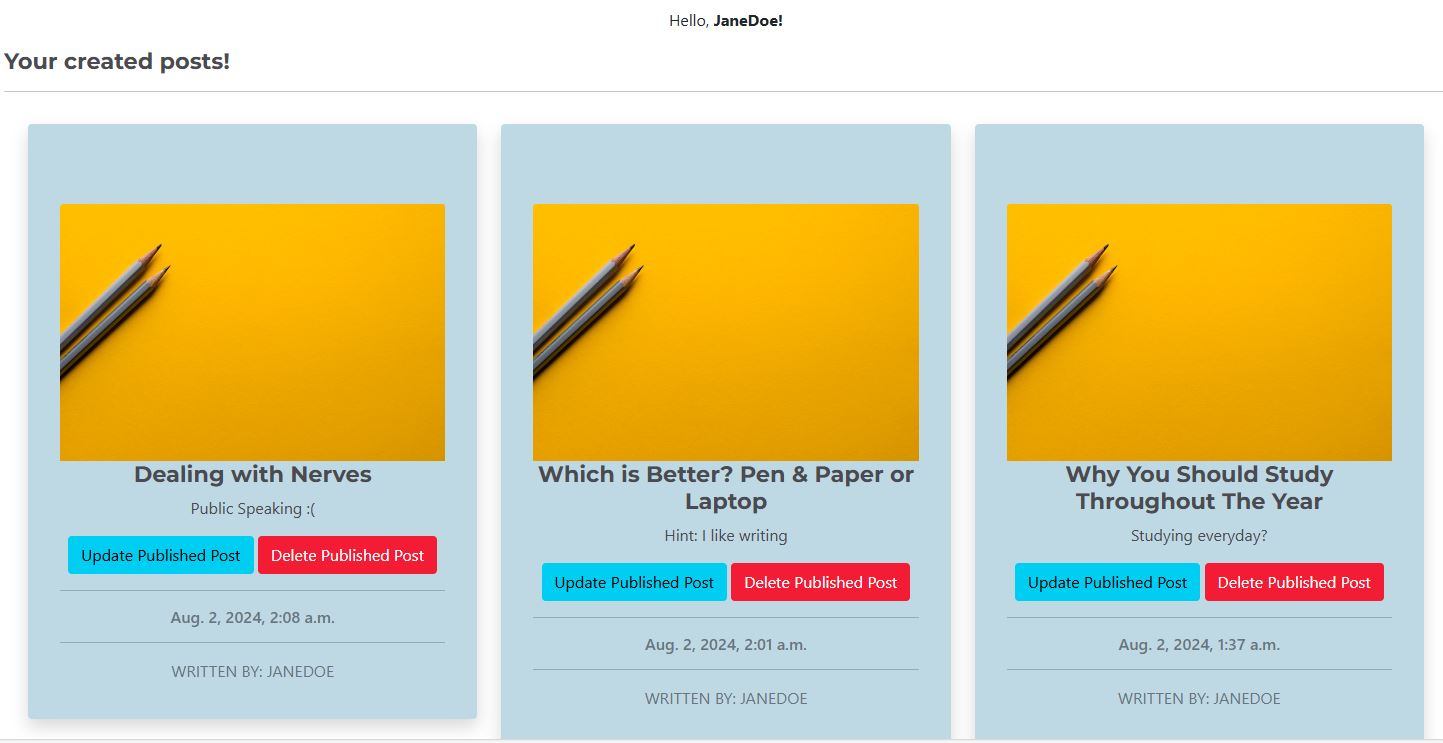
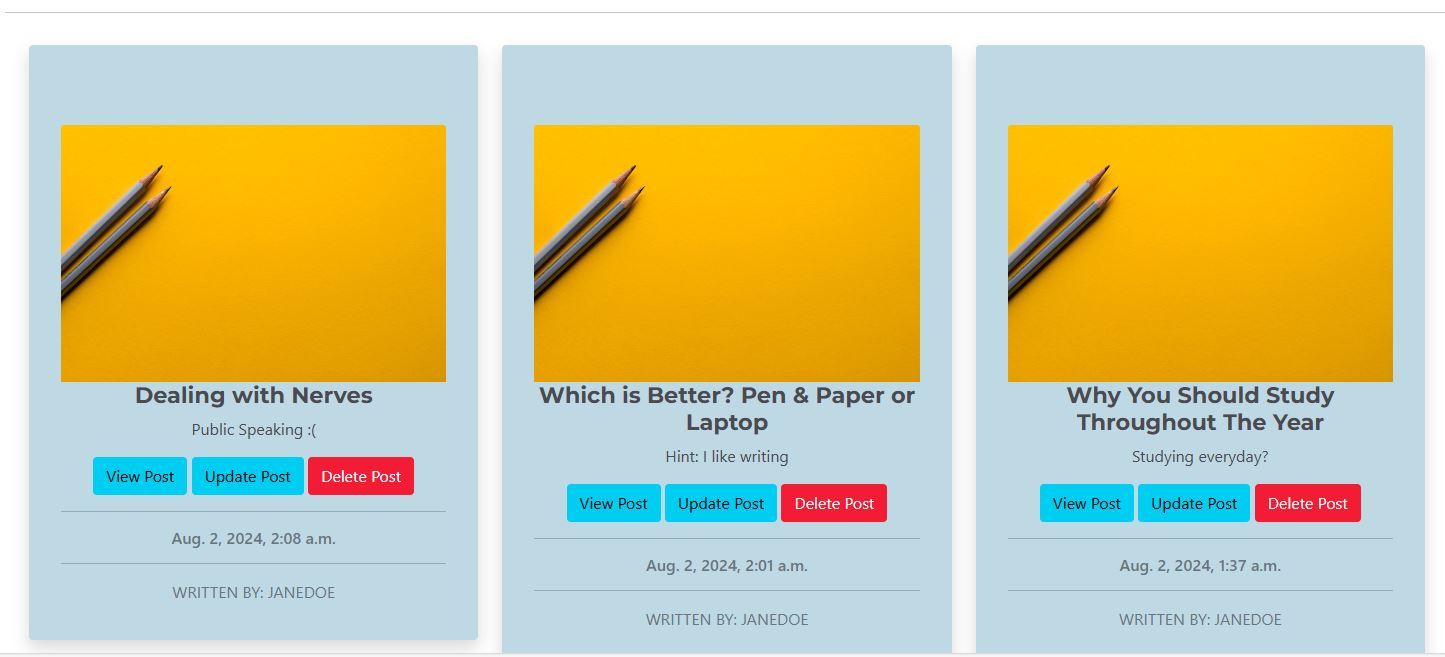
make some changes to the about (who we are) page , add content to read me, change the image (published_my_posts) where name is the same, edit my_posts_list.html to add a view posts button

diff --git a/studyexamtips/templates/studyexamtips/my_posts_list.html b/studyexamtips/templates/studyexamtips/my_posts_list.html
@@ -33,8 +33,9 @@
                             {% if user.is_authenticated and post.status == 1 and post.author == user %} 
                             {% csrf_token %}
                             <div class="text-center">
-                              <a href=" {% url 'edit' post.slug %}" class="btn btn-info" >Update Published Post</a>
-                              <a href=" {% url 'delete' post.slug %}" class="btn btn-danger" >Delete Published Post</a>
+                              <a href=" {% url 'post_detail' post.slug %}" class="btn btn-info" >View Post</a>
+                              <a href=" {% url 'edit' post.slug %}" class="btn btn-info" >Update Post</a>
+                              <a href=" {% url 'delete' post.slug %}" class="btn btn-danger" >Delete Post</a>
                             </div>
                             {% elif user.is_authenticated and post.status == 0 and post.author == user %}
                             <div class="text-center">

diff --git a/studyexamtips/templates/studyexamtips/about.html b/studyexamtips/templates/studyexamtips/about.html
@@ -21,7 +21,7 @@
                 are written by people who have been through it all.
                 <br>
                 <br>
-                You can visit our study tips page. Below is just sample of what you could find!
+                You can visit our study tips page for regular revision! Pages can include:
                 <ul class = "list-unstyled mt-1 mb-1">
                     <li>
                         How to organise your day
@@ -37,7 +37,7 @@
                     </li>
                 </ul> 
                 <br>
-                Or for exams we have the exam tips page. Have a look at a sample of what you could find!
+                Or for exams, we have the exam tips page. Have a look at a sample of what you could find!
                 <ul class = "list-unstyled mt-1 mb-1">
                     <li>
                         What to do on exam day

diff --git a/README.md b/README.md
@@ -1,7 +1,7 @@
 # Study Buddies 
 Welcome to the Study Buddies Project. 
 
-Study Buddies is a website dedicated to sharing study and exam tips to all who need it. Exam season can be stressful and knowing where to begin studying can be intimidating, therefore this site lets people (who've been through it all) to share any tips and tricks they want to. A source of inspiration for this site was Wikipedia. On Wikipedia people can share anything they'd like (as long as it follows the rules) regarding any topic. Whilst Wikipedia encompasses all topics related to absolutely anything in the world, Study Buddies focus on specifically studying, whether it's studying just for revision or studying for the all dreaded exam. Similar to Wikipedia, logged in users can share their own posts which ensures we have the latest tips and tricks and we can be sure they work! Even more importantly, it's crucial to be aware that everybody has different ways of working and studying. Because Study Buddies consists of posts written by users, we can be sure there is a plethora of information suitable for every need. 
+Study Buddies is a website dedicated to sharing study and exam tips to all who need it. Exam season can be stressful and knowing where to begin studying can be intimidating, therefore this site lets people (who've been through it all) to share any tips and tricks they want to. A source of inspiration for this site was Wikipedia. On Wikipedia people can share anything they'd like (as long as it follows the rules) regarding any topic. Whilst Wikipedia encompasses all topics related to absolutely anything in the world, Study Buddies focus on specifically studying, whether it's studying just for revision or studying for the all dreaded exam. Similar to Wikipedia, logged in users can share their own posts which ensures we have the latest tips and tricks and we can be sure they work! Even more importantly, it's crucial to be aware that everybody has different ways of working and studying. Because Study Buddies consists of posts written by users, we can be sure there is a plethora of information suitable for every need. The primary focus of the site is to provide advice based on previous experience of users. However, fundamentally StudyBuddies is a site which users can utilise for their journey in education regardless of where they're at. Therefore users also share other posts (not necessarily study tips or exam tips) such as exam-style questions. 
 
 You can view the deployed site [here](https://studybuddies-pp4-87eb5b7c6767.herokuapp.com/)
 
@@ -31,10 +31,10 @@ You can view the deployed site [here](https://studybuddies-pp4-87eb5b7c6767.hero
 
 # **Project**
 ## Users Goal
-The user is somebody who would like to find out more information about the best ways to study both in regular day to day studying and for exams
+The user is somebody who would like to find out more information about the best ways to study both in regular day to day studying and for exams. It can be used as a study tool also if a user decides to share subject related quizzes or questions. 
 
 ## Owners Goal
-The owner would like the community to be able to share tips and tricks to readers of the site to make studying easy
+The owner would like the community to be able to share tips and tricks to readers of the site to make studying and exams easy. Furthermore, StudyBuddies can be used as a tool for users to study as users can share questions for other user's benefit. 
 
 ### Agile
 A Github board (project) was used for the agile aspect of this project to manage my user stories. 
@@ -50,7 +50,7 @@ The following Entity Relationship Diagrams (ERD) using Microsoft Word Online wer
 
 # **User Experience**
 ## Wireframes
-The following wireframes were created to design the layout of the pages. It was created using Microsoft Paint.
+The following wireframes were created to design the layout of the pages and was created using Microsoft Paint.
 ![Posts](readme_images/1_posts_pages.png)
 ![About/Who We Are](readme_images/2_about_page.png)
 ![Create Post Form](readme_images/3_create_form.png)
@@ -64,7 +64,7 @@ To view the User Stories for this project, you can visit my GitHub board [here.]
 
 # **Features**
 ## Header
-The header of the page includes the name of the site which is Study Buddies. The sites name is linked to the homepage so that when users would like to go back, they simply need to click on the site name. Furthermore, the colour chosen is #4A4A4F which is dark grey. This is because it is softer than the harsh black against the background which is rgb(196, 215, 228). See image in Navigation section.
+The header of the page includes the name of the site which is Study Buddies. The sites name is linked to the homepage so that when users would like to go back, they simply need to click on the site name. Furthermore, the colour chosen is #4A4A4F which is dark grey. This is because it is softer than the harsh black against the background which is rgb(196, 215, 228). See image in Navigation section for the Header also. 
 
 ## Navigation
 The navigation (nav bar) has the following pages. 
@@ -87,36 +87,36 @@ If the User is logged in, then in addition to the pages 1-5 from above, we have 
 
 ## Pages
 Each navigation takes you to the following pages:
-1. Home - this page shows all posts regardless of category and is paginated.
+1. Home - this page shows all posts regardless of category and is paginated. This page contains all posts even if they are not of either category. For example, a user may choose to post a worksheet they made. Whilst it is studying, it is not a study tip. 
 
 ![Home](readme_images/home.JPG)
 
-2. Study Tips - page shows all posts of the study tip category and is paginated
+2. Study Tips - page shows all posts of the study tip category and is paginated. This page can have regular study tips.
 
 ![Study](readme_images/study.JPG)
 
-3. Exam Tips - page shows all posts of the exam tip category and is paginated
+3. Exam Tips - page shows all posts of the exam tip category and is paginated. Since exams are most likely why the user is studying, this will allow them to find all information in one page.
 
 ![Exam](readme_images/exam.JPG)
 
-4. Who We Are - page gives a small about section along with when the last post was created
+4. Who We Are - page gives a small about section along with when the last post was created to show how their can always be new ideas or tips.
 
 ![Who](readme_images/who.JPG)
 
-5. Search - user can search for posts and retrieve a list
+5. Search - user can search for posts and retrieve a list of all posts that contain the query. It is not case sensitive.
 
 ![Search](readme_images/search.JPG)
 
-6. Sign Up - a new user can create an account
+6. Sign Up - a new user can create an account. Then when they are logged in, there is a constant message to say hello, username. This shows they are logged in. As can be seen in the header/navigation image above, there is a message to say hello, you are not logged in. This is to show that the site user is not logged in.
 
 ![Sign Up Page](readme_images/sign_up.JPG)
 
-7. Sign In -  a returning user can log in. Onc logged in the user can see a message to say it is successful.
+7. Sign In -  a returning user can log in. Onc logged in the user can see a message to say it is successful. When they are logged in, there is a constant message to say welcome, username. This shows they are logged in.
 
 ![Sign In](readme_images/sign_in.JPG)
 ![Signed In](readme_images/signed_in.JPG)
 
-8. My Posts - user can view all published and draft posts
+8. My Posts - user can view all published and draft posts. Published posts have a button which allow users to view their post. Draft Posts have 2 buttons - one to continue to edit the post and one to delete the post. 
 
 ![Draft Posts](readme_images/draft_my_posts.JPG)
 ![Pulished Posts](readme_images/published_my_posts.JPG)
